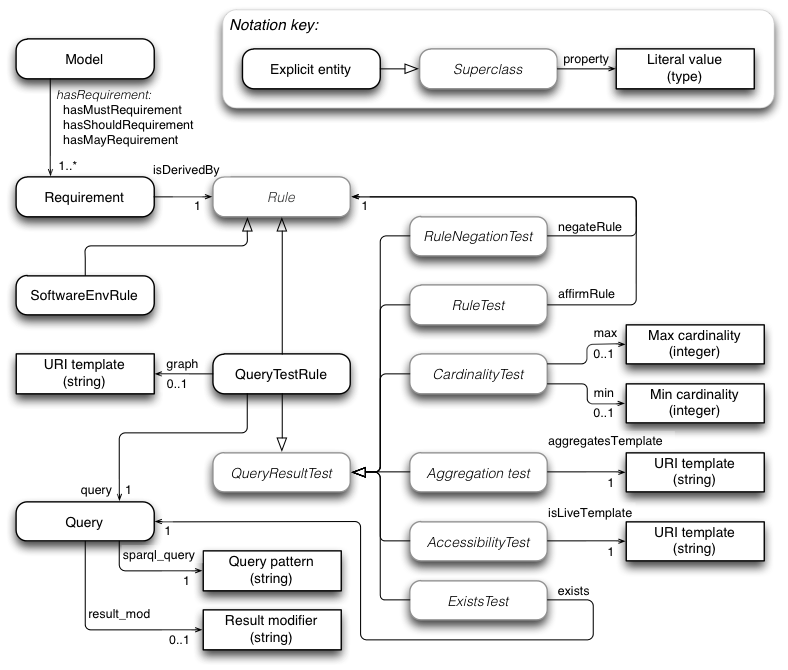
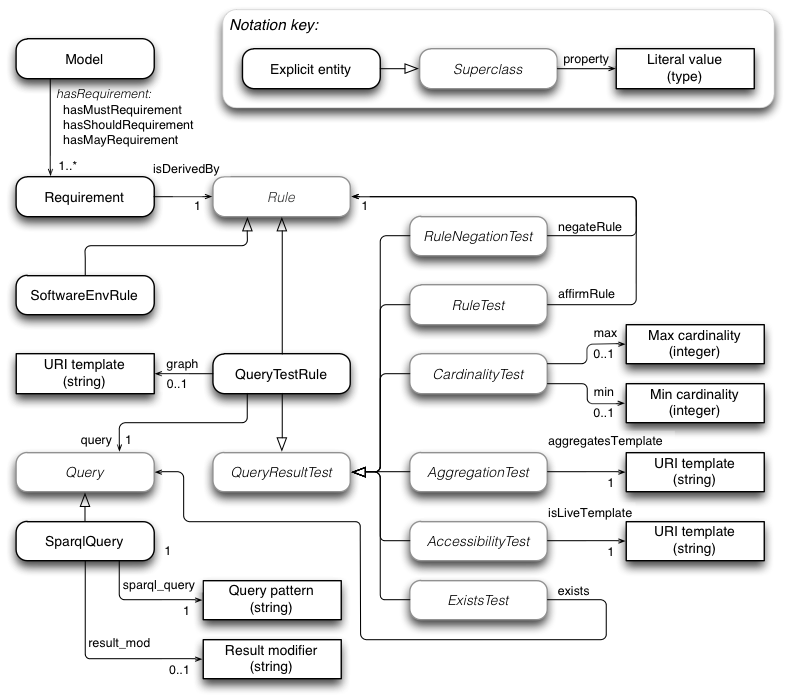
Add Query class as additional extension point

Changed region(s): [[0.0, 0.0299, 0.9746, 0.9851], [0.2741, 0.0299, 1.0, 0.1791], [0.4569, 0.7761, 0.4873, 0.806]]

diff --git a/Minim/minim-revised.md b/Minim/minim-revised.md
@@ -14,7 +14,8 @@ A minim checklist implementation evaluates a checklist in some context.  A minim
 
 ## minim:Checklist
 
-The goal of our approach is to determine suitability for some user selected purpose, so there may be several checklists defined, each associated with evaluating suitability of some data for different purposes.
+The goal of our approach is to determine suitability for some user selected purpose, so there may be several checklists defined, each associated with evaluating suitability of some data for different purposes.  A Checklist may be associated directly with a target resource as the subject of a `minim:hasChecklist` statement, or may be associated indirectly via a URI template that is the object of an associated `minim:forTargetTemplate` statement. The latter form is is more flexible as it allows a given checklist to be more easily used with multiple resources.
+
 
 A minim:Checklist provides information that can be used to select a minim:Model and a Research Object, or a resource within a resource object, to be evaluated to determine its suitability for some purpose.  This example indicates a minim:Model that might be used for evaluating whether or not a workflow contains a runnable workflow:
 
@@ -36,17 +37,17 @@ These Minim environment variables may be used in subsequent requirement rule des
 
 A minim:Model enumerates of a number of requirements which may be declared at levels of MUST, SHOULD or MAY be satisfied for the model as a whole to be considered satisfied. This follows a structure for minimum information models proposed by Matthew Gamble.  Here is an example of a model that has been used for testing whether a runnable workflow is present:
 
-  :runnable_workflow_model a minim:Model ;
-    rdfs:label "Minimum information for RO containing a runnable workflow"
-    rdfs:comment
-      """
-      This model defines information that must be available in a Research Object containing a runnable workfow
-      which in turn may need a Python software interpeter to be available.
-      """ ;
-    minim:hasMustRequirement :has_workflow_instance ;
-    minim:hasMustRequirement :live_workflow ;
-    minim:hasMustRequirement :has_workflow_inputfiles" ;
-    minim:hasMustRequirement :environment_python .
+    :runnable_workflow_model a minim:Model ;
+      rdfs:label "Minimum information for RO containing a runnable workflow"
+      rdfs:comment
+        """
+        This model defines information that must be available in a Research Object containing a runnable workfow
+        which in turn may need a Python software interpeter to be available.
+        """ ;
+      minim:hasMustRequirement :has_workflow_instance ;
+      minim:hasMustRequirement :live_workflow ;
+      minim:hasMustRequirement :has_workflow_inputfiles" ;
+      minim:hasMustRequirement :environment_python .
 
 
 ## minim:Requirement
@@ -55,8 +56,8 @@ Minim requirements are evaluated using rules.  The current implementation define
 
 The basic structure of a requirement is an association between the identified requirement and its associated evaluation rule; e.g.
 
-    :has_workflow-instance a minim:Requirement
-      rdfs:label "Workflow instance requirement"
+    :has_workflow-instance a minim:Requirement ;
+      rdfs:label "Workflow instance requirement" ;
       rdfs:comment
         """
         For a Research Object to contain a runnable workflow, a workflow instance must be specified.
